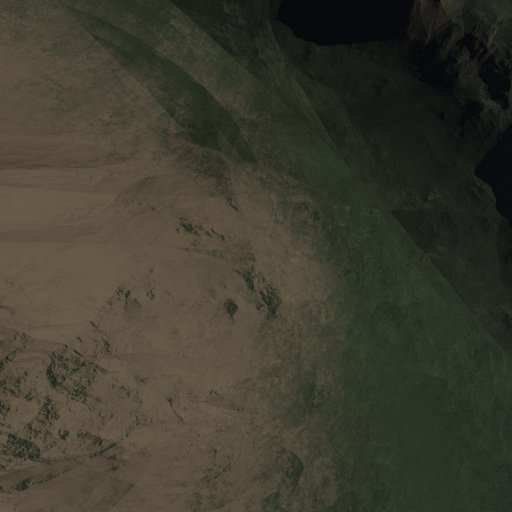
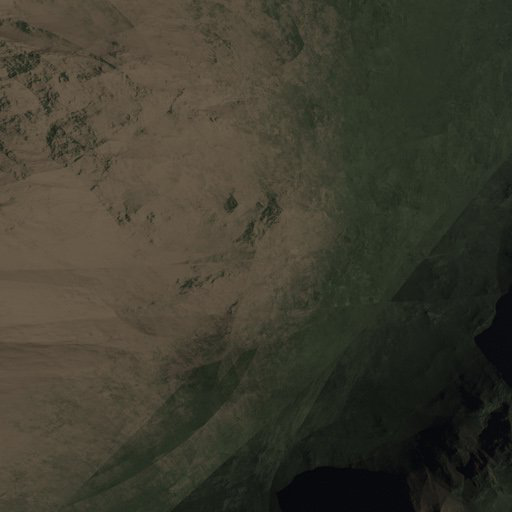
사소한 수치 조절 ~_~
ㅇㅅㅇ

diff --git a/YaMang/YaMangClient/YaMangClient/YaMangClient/CameraController.h b/YaMang/YaMangClient/YaMangClient/YaMangClient/CameraController.h
@@ -3,14 +3,14 @@
 #include "MacroSet.h"
 #include <d3dx9math.h>
 
-const FLOAT NEAREST_Y = 30.0f;
-const FLOAT DEGREE_1_Y = 50.0f;
+const FLOAT NEAREST_Y = 10.0f;
+const FLOAT DEGREE_1_Y = 40.0f;
 const FLOAT DEGREE_2_Y = 100.0f;
-const FLOAT DEGREE_3_Y = 150.0f;
+const FLOAT DEGREE_3_Y = 170.0f;
 const FLOAT FARTHEST_Y = 250.0f;
 
-const FLOAT NEAREST_VIEW_Y = 0.03f;
-const FLOAT DEGREE_1_VIEW_Y = 0.15f;
+const FLOAT NEAREST_VIEW_Y = 0.01f;
+const FLOAT DEGREE_1_VIEW_Y = 0.20f;
 const FLOAT DEGREE_2_VIEW_Y = 0.45f;
 const FLOAT DEGREE_3_VIEW_Y = 0.60f;
 const FLOAT FARTHEST_VIEW_Y = 0.9999f;

diff --git a/YaMang/YaMangClient/YaMangClient/YaMangClient/ScenePlay.cpp b/YaMang/YaMangClient/YaMangClient/YaMangClient/ScenePlay.cpp
@@ -193,7 +193,7 @@ Corps* ScenePlay::SearchCorpsByPosition( float x, float z, bool selectOption )
 		D3DXVECTOR3& thisPosition = thisCorps->GetEyePoint();
 
 		// AABB
-		if ( ( thisPosition.x - x < 5.0 && thisPosition.x - x > -5.0 ) && ( thisPosition.x - x < 5.0 && thisPosition.x - x > -5.0 ) )
+		if ( ( thisPosition.x - x < 7.0 && thisPosition.x - x > -7.0 ) && ( thisPosition.x - x < 7.0 && thisPosition.x - x > -7.0 ) )
 		{
 			Log( "%d번 부대 1차 피킹!!! \n", thisCorps->GetCorpsID() );
 		

diff --git a/YaMang/YaMangClient/YaMangClient/YaMangClient/CameraController.cpp b/YaMang/YaMangClient/YaMangClient/YaMangClient/CameraController.cpp
@@ -226,7 +226,7 @@ void CameraController::Update()
 	{
  		if ( dotView < targetViewY )
  		{
- 			RotateUp( delta / 30 );
+ 			RotateUp( delta * dotView / 30 );
  		}
 
 		MoveElevate( delta );
@@ -243,7 +243,7 @@ void CameraController::Update()
 	{
  		if ( dotView > targetViewY )
  		{
- 			RotateUp( -delta / 30 );
+			RotateUp( -delta * dotView / 30 );
  		}
 		
 		MoveElevate( - delta );

diff --git a/YaMang/YaMangClient/YaMangClient/YaMangClient/Corps.cpp b/YaMang/YaMangClient/YaMangClient/YaMangClient/Corps.cpp
@@ -180,7 +180,7 @@ void Corps::SetCorpsHP( int unitNum )
 
 bool Corps::IsContain( float x, float z )
 {
-	std::shared_ptr<Collision> clickCollision(new Collision( this, 1.5f ));
+	std::shared_ptr<Collision> clickCollision(new Collision( this, 3.0f ));
 	
 	D3DXVECTOR3 backupPosition = m_EyePoint;
 	m_EyePoint.x = x;
